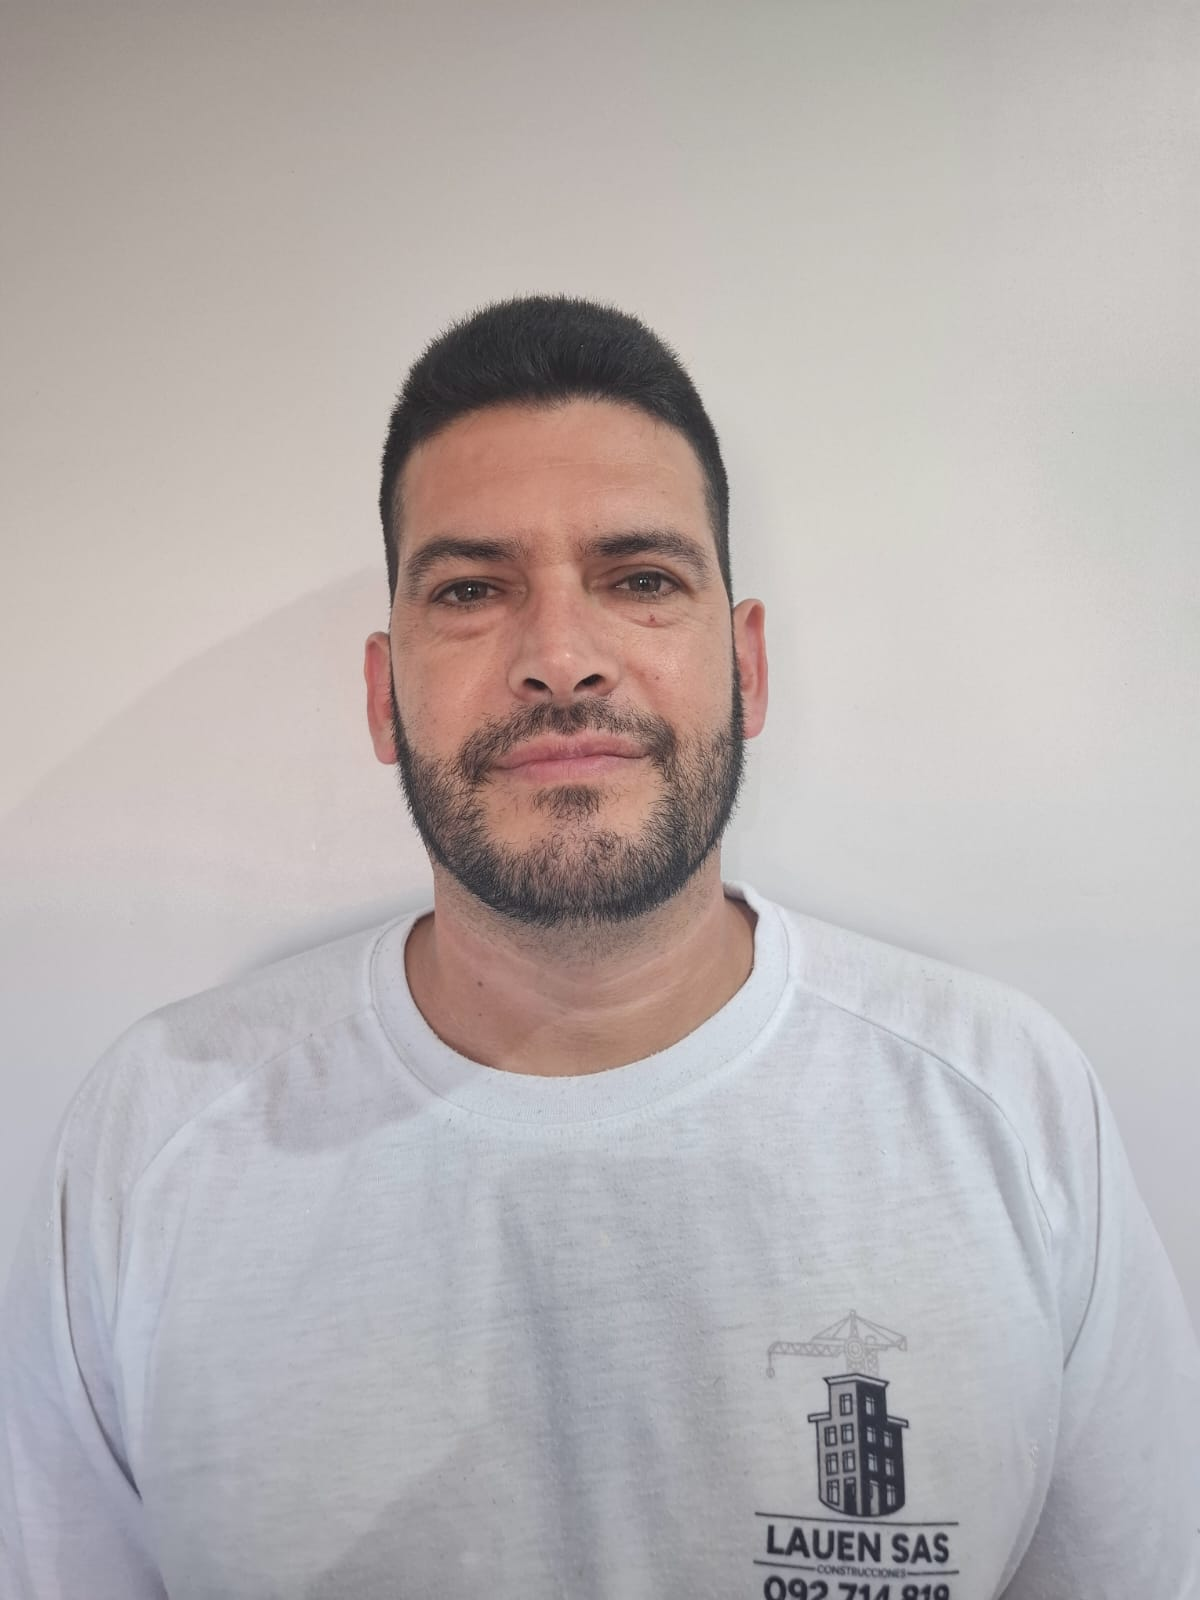
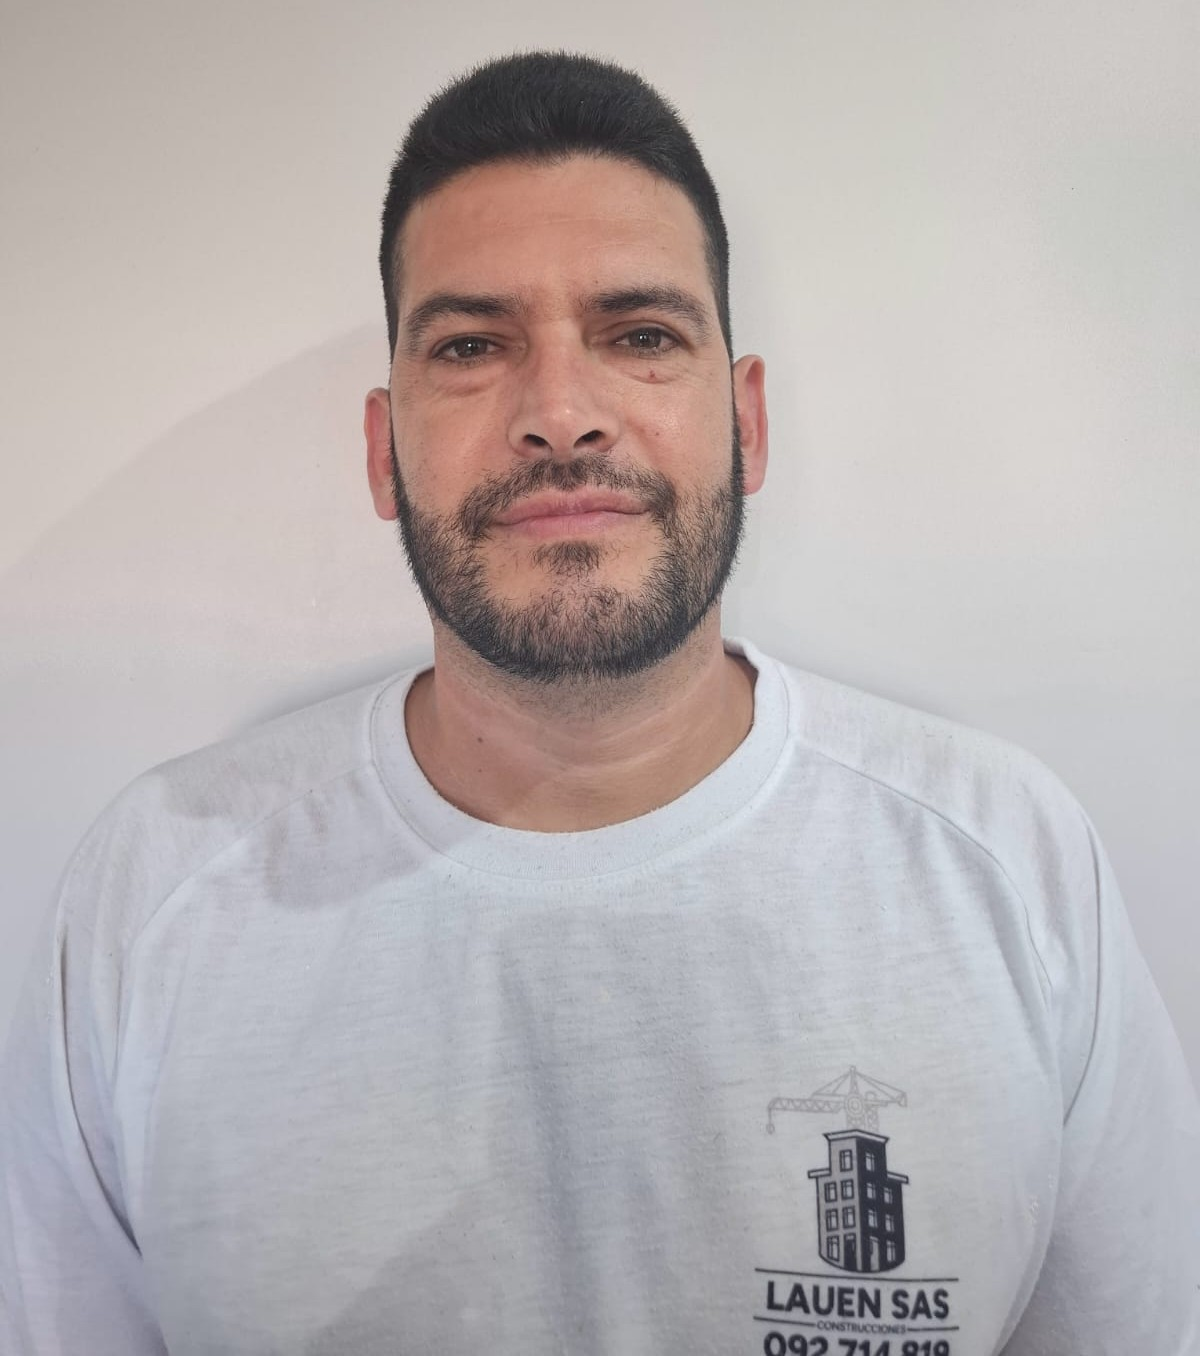
ceo img fixes

diff --git a/styles.css b/styles.css
@@ -39,7 +39,6 @@ body {
   font-style: normal;
 }
 
-/* HERO */
 .hero {
   position: relative;
   min-height: 100vh;
@@ -99,7 +98,6 @@ body {
   z-index: 1;
 }
 
-/* BUTTON */
 .btn-primary {
   background: var(--accent);
   color: white;
@@ -115,7 +113,6 @@ body {
   box-shadow: 0 10px 20px rgba(0, 0, 0, 0.15);
 }
 
-/* SECTIONS */
 .section {
   padding: 3rem 1.5rem;
 }
@@ -131,7 +128,6 @@ h2 {
   text-align: center;
 }
 
-/* CAROUSEL */
 .carousel {
   overflow-x: auto;
   scroll-snap-type: x mandatory;
@@ -154,7 +150,6 @@ h2 {
   scroll-snap-align: start;
 }
 
-/* CARDS */
 .card {
   min-width: 260px;
   background: white;
@@ -170,7 +165,6 @@ h2 {
   color: var(--gray);
 }
 
-/* FORM */
 .contact-form {
   max-width: 420px;
   margin: auto;
@@ -192,7 +186,6 @@ h2 {
   min-height: 120px;
 }
 
-/* FOOTER */
 .footer {
   display: flex;
   flex-wrap: wrap;
@@ -222,7 +215,6 @@ h2 {
   opacity: 1;
   transform: translateY(0);
 }
-/* NAVBAR */
 .navbar {
   position: fixed;
   top: 0;
@@ -249,7 +241,7 @@ h2 {
 }
 
 .nav-logo img {
-  width: 36px; /* CLAVE */
+  width: 36px; 
   height: auto;
 }
 
@@ -658,16 +650,17 @@ body.light .wave-divider path {
   gap: 5.5rem;
 }
 
-.about-ceo img {
-  width: 120px;
-  height: 120px;
-  object-fit: cover;
-  border-radius: 50%;
-}
 
+.about-ceo img {
+  width: 123px;
+  height: 140px;
+  object-fit: contain;  
+  background: white; 
+  border-radius: 12px;
+}
 .about-ceo {
   padding: 1.5rem;
-  border-radius: 16px;
+  border-radius: 10px;
   background: rgba(0, 0, 0, 0.108);
 }
 
@@ -820,9 +813,7 @@ body {
     bottom: 0;
     left: 0;
     right: 0;
-    /* Capa oscura semitransparente (negro con 0.5 de opacidad) */
     background-color: rgba(0, 0, 0, 0.5); 
-    /* Asegura que la capa esté detrás del contenido (como el h1) */
     z-index: 0; 
 }
 
@@ -840,7 +831,7 @@ body {
 .before-after {
   position: relative;
   width: 100%;
-  aspect-ratio: 1 / 1; /* cuadrado */
+  aspect-ratio: 1 / 1;
   overflow: hidden;
   border-radius: 20px;
   background: #000;
@@ -856,11 +847,10 @@ body {
   pointer-events: none;
 }
 
-/* capa AFTER */
 .before-after .after {
   position: absolute;
   inset: 0;
-  clip-path: inset(0 100% 0 0); /* empieza oculto */
+  clip-path: inset(0 100% 0 0); 
   transition: none;
 }
 
@@ -914,9 +904,7 @@ body {
     bottom: 0;
     left: 0;
     right: 0;
-    /* Capa oscura semitransparente (negro con 0.5 de opacidad) */
     background-color: rgba(255, 255, 255, 0.859); 
-    /* Asegura que la capa esté detrás del contenido (como el h1) */
     z-index: 0; 
     border-radius: 18px;
 }
@@ -1064,7 +1052,6 @@ body {
   font-weight: 600;
 }
 
-/* Mobile */
 @media (max-width: 768px) {
   .ba-grid {
     grid-template-columns: 1fr;
@@ -1076,7 +1063,7 @@ body {
 }
 .ba-grid {
   display: grid;
-  grid-template-columns: repeat(2, 1fr); /* 2 columnas = 4 pares */
+  grid-template-columns: repeat(2, 1fr); 
   gap: 2.5rem;
   max-width: 1200px;
   margin: 2.5rem auto;
@@ -1093,7 +1080,7 @@ body {
 
 .ba-item img {
   width: 100%;
-  height: 320px; /* MÁS GRANDES */
+  height: 320px;
   object-fit: cover;
   display: block;
 }
@@ -1135,16 +1122,16 @@ body {
   }
 
   .ba-item::after {
-    display: none; /* nada de línea en mobile */
+    display: none; 
   }
 }
 
 .ba-placeholder {
   align-items: center;
   justify-content: center;
-  height: 360px; /* mismo alto que las imágenes */
+  height: 360px; 
   border-radius: 18px;
-  background: #0e2842; /* color del fondo */
+  background: #0e2842; 
   color: rgba(255, 255, 255, 0.75);
   font-weight: 600;
   text-align: center;

diff --git a/index.html b/index.html
@@ -35,7 +35,6 @@
     <link rel="icon" href="images/logo.svg" type="image/svg" />
   </head>
   <body>
-    <!-- NAVBAR -->
     <nav class="navbar">
       <a href="#" class="nav-logo">
         <img src="images/logo.png" alt="Lauen SAS" />
@@ -53,7 +52,6 @@
       </div>
     </nav>
     <main>
-      <!-- HERO -->
       <header class="hero" id="hero">
         <div class="hero-content">
           <div class="hero-logo">
@@ -79,7 +77,6 @@
         </svg>
       </div>
 
-      <!-- SOBRE NOSOTROS -->
       <section class="section about-wrapper" id="About">
         <h2>Sobre nosotros</h2>
 
@@ -141,7 +138,6 @@
         </div>
       </section>
 
-      <!-- CARRUSEL OBRAS -->
       <div class="photos">
         <div class="carousel-wrapper" id="Obras" data-animate>
           <div class="carousel" data-carousel>
@@ -233,7 +229,6 @@
         </div>
       </section>
 
-      <!-- CARRUSEL OPINIONES -->
       <section class="section light">
         <h2>Opiniones de clientes</h2>
         <div class="opinions-grid" id="Opiniones" data-animate>
@@ -252,7 +247,6 @@
         </div>
       </section>
 
-      <!-- CONTACTO -->
       <section id="Contacto" class="section" data-animate>
         <h2>Contacto</h2>
         <form class="contact-form" id="contactForm" novalidate>
@@ -280,7 +274,6 @@
       </section>
     </main>
 
-    <!-- FOOTER -->
     <footer class="footer">
       <div class="footer-item">
         <svg
@@ -379,7 +372,7 @@
       const next = document.querySelector(".next");
       const counter = document.getElementById("carouselCounter");
 
-      const gap = 16; // coincide con el gap del CSS
+      const gap = 16;
       let index = 0;
       const total = images.length;
 
@@ -403,7 +396,6 @@
       next.addEventListener("click", () => goTo(index + 1));
       prev.addEventListener("click", () => goTo(index - 1));
 
-      // 🔥 Detecta scroll manual (touch, trackpad, mouse)
       let scrollTimeout;
       carousel.addEventListener("scroll", () => {
         clearTimeout(scrollTimeout);
@@ -417,7 +409,6 @@
         }, 80);
       });
 
-      // estado inicial
       updateCounter();
     </script>
 
@@ -447,7 +438,7 @@
     </script>
     <script>
       const body = document.body;
-      const aboutSection = document.querySelector(".section"); // Sobre nosotros
+      const aboutSection = document.querySelector(".section");
 
       let lockedLight = false;
 
@@ -472,7 +463,6 @@
         }
       });
 
-      // estado inicial
       body.classList.add("dark");
     </script>
 
@@ -543,7 +533,6 @@
         const slider = ba.querySelector("input");
         const after = ba.querySelector(".after");
 
-        // empieza mostrando SOLO el antes
         slider.value = 0;
         after.style.clipPath = "inset(0 100% 0 0)";
 
@@ -644,7 +633,6 @@
     grid.appendChild(item);
   });
 
-  // 👇 Si faltan obras en la última página, rellenamos
   const missing = perPage - slice.length;
 
   if (missing > 0) {
